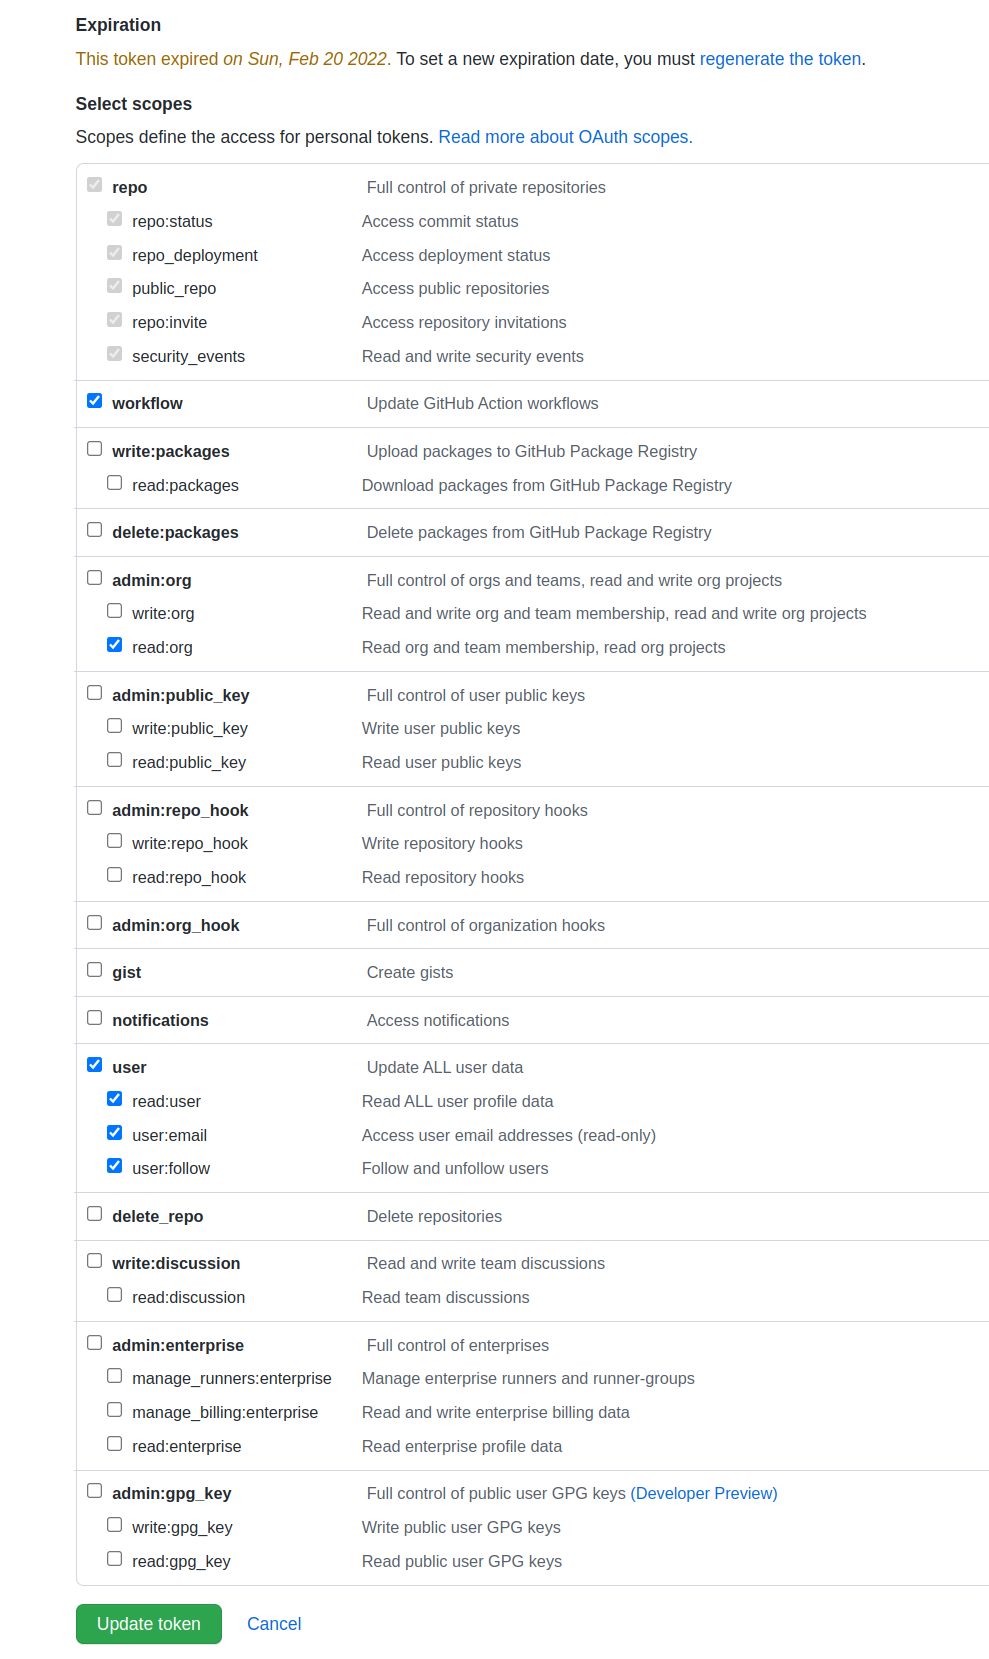
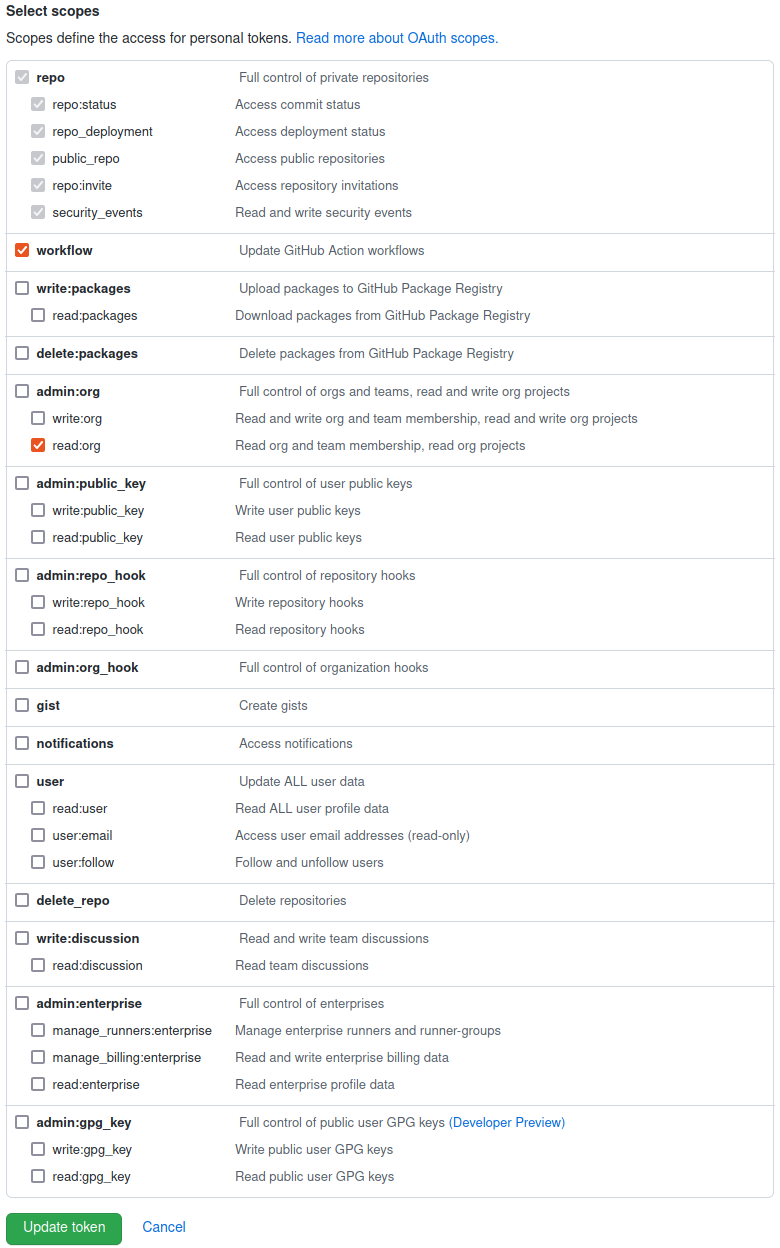
doc: review points

diff --git a/README.md b/README.md
@@ -298,13 +298,16 @@ installed.
 
     ![Token scopes](./img/token-scopes.png)
 
-    and save it into the repo or orga secrets.
+      - `read:org` is needed in order to see the teams and request reviews from them
+      - `workflow` is needed for the action to track the job's status
+
+    And save it into the repo or orga Action secrets.
 
     Use this token in `with: token:` of the Action definition.
 
-2. one should [add the config](https://github.com/paritytech/substrate/pull/10968) to the repository, without it in `master` the Action will not work.
-3. [add](https://github.com/paritytech/substrate/pull/10951/files) the Action definition.
-4. add the team that reviews these config files, default review team and those who review 🔒. Don't forget to protect the latter with a comment line and a 🔒 there.
+2. One should [add the config](https://github.com/paritytech/substrate/pull/10968) to the repository, without it in `master` the Action will not work.
+3. [Add](https://github.com/paritytech/substrate/pull/10951/files) the Action definition.
+4. Add the team that reviews these config files, default review team and those who review 🔒. Don't forget to protect the latter with a comment line and a 🔒 .there.
 5. PR Custom Review should request a review from aforementioned groups.
 
 ### Testing
